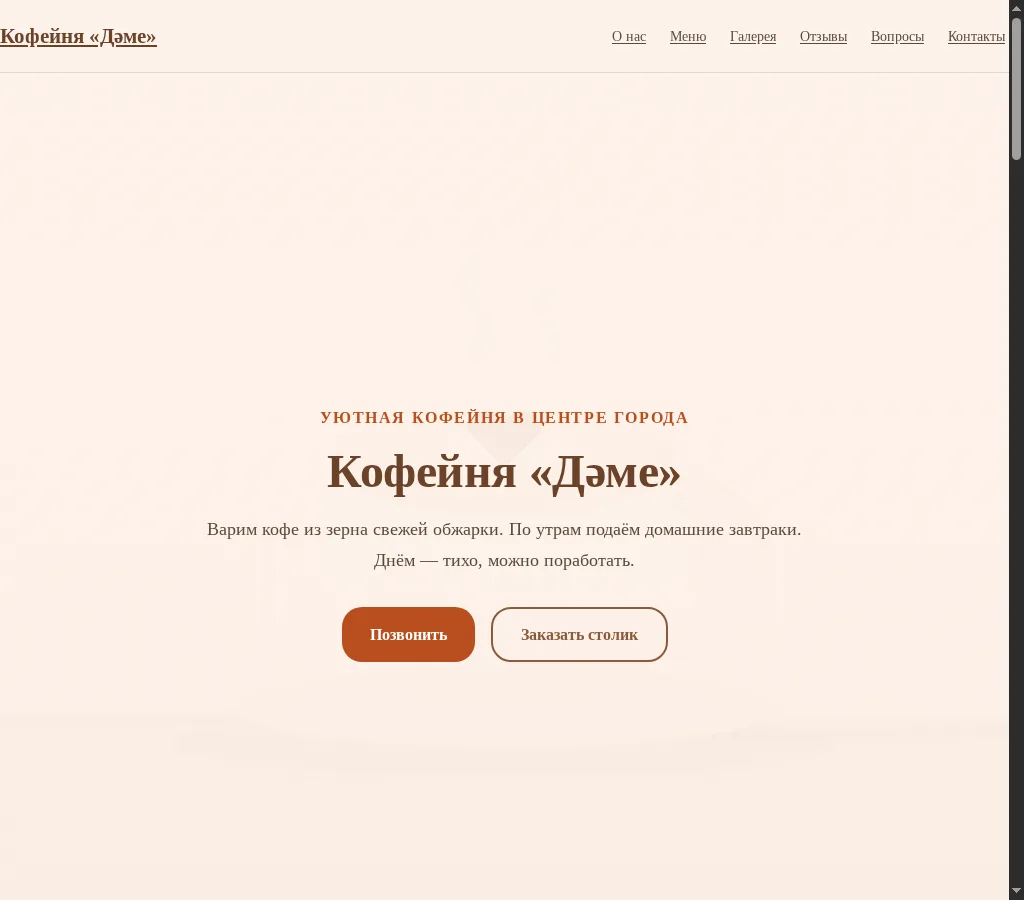
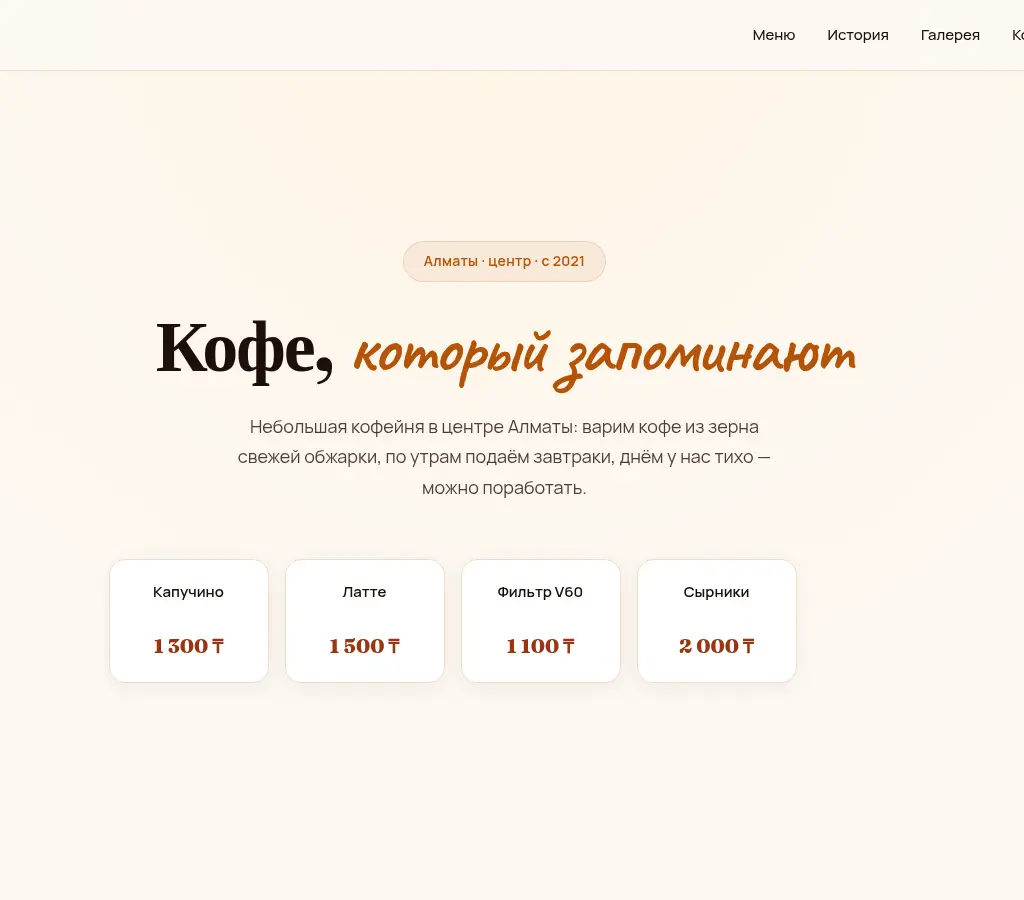
fix: hero sub for small business, update screenshots to premium demos

diff --git a/index.html b/index.html
@@ -86,7 +86,7 @@
         <div class="hero-copy">
           <p class="hero-eyebrow gs-reveal">Разработка для бизнеса · Алматы</p>
           <h1 id="hero-title" class="gs-reveal">Заявки не теряются: сайт приводит клиентов, AI-админ отвечает за 5 секунд</h1>
-          <p class="hero-sub gs-reveal">Сайт от 45.000₸ + AI-админ 24/7 от 12.000₸/мес (первые 3 дня бесплатно) — для салонов, кофеен и мастерских Алматы.</p>
+          <p class="hero-sub gs-reveal">Сайт от 45.000₸ + AI-админ 24/7 от 12.000₸/мес (первые 3 дня бесплатно) — для малого бизнеса.</p>
           <div class="hero-actions gs-reveal">
             <a class="btn btn-primary btn-lg" href="#contact">Обсудить проект</a>
             <a class="btn btn-ghost btn-lg" href="#recent">Посмотреть работы</a>
